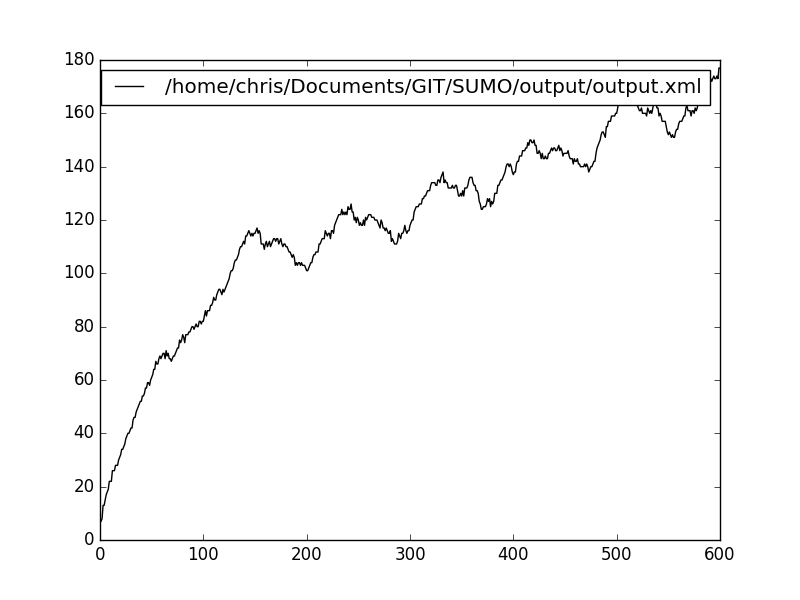
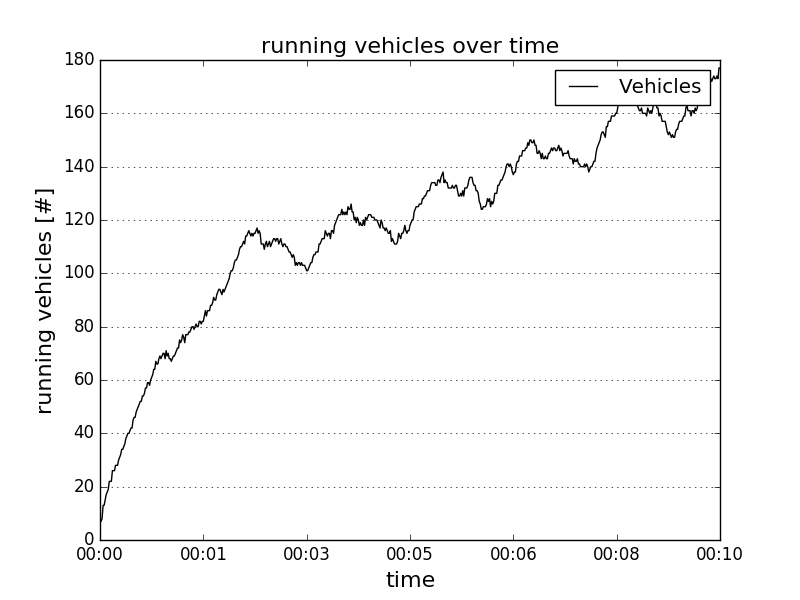
output (doc)

diff --git a/output/output-doc.md b/output/output-doc.md
@@ -1,0 +1,5 @@
+'''
+
+python plot_summary.py -i /home/chris/Documents/GIT/SUMO/output/output.xml -o /home/chris/Documents/GIT/SUMO/output/output.png -l Vehicles --xtime1 --ygrid --ylabel "running vehicles [#]" --xlabel "time" --title "running vehicles over time"
+
+'''
